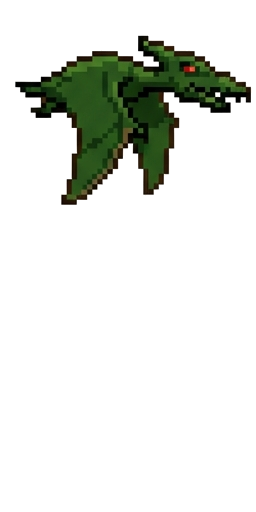
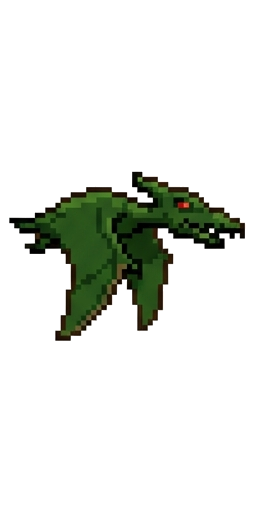
Fix: Centered Pterodactyl sprites to remove jitter

Changed region(s): [[0.0312, 0.0625, 1.0, 0.6875]]

diff --git a/tools/center_sprites.py b/tools/center_sprites.py
@@ -1,0 +1,40 @@
+from PIL import Image
+import sys
+import os
+
+def center_sprite(image_path):
+    img = Image.open(image_path).convert("RGBA")
+    width, height = img.size
+    
+    # Get the bounding box of the non-transparent area
+    bbox = img.getbbox()
+    
+    if not bbox:
+        print(f"Skipping empty image: {image_path}")
+        return
+
+    # Calculate content width and height
+    content_width = bbox[2] - bbox[0]
+    content_height = bbox[3] - bbox[1]
+    
+    # Calculate the new top-left coordinates to center the content
+    new_left = (width - content_width) // 2
+    new_top = (height - content_height) // 2
+    
+    # Create a new empty image with transparent background
+    new_img = Image.new("RGBA", (width, height), (0, 0, 0, 0))
+    
+    # Paste the cropped content into the center
+    content = img.crop(bbox)
+    new_img.paste(content, (new_left, new_top))
+    
+    new_img.save(image_path)
+    print(f"Centered {image_path}")
+
+if __name__ == "__main__":
+    if len(sys.argv) < 2:
+        print("Usage: python center_sprites.py <image_path> [image_path...]")
+        sys.exit(1)
+        
+    for path in sys.argv[1:]:
+        center_sprite(path)
